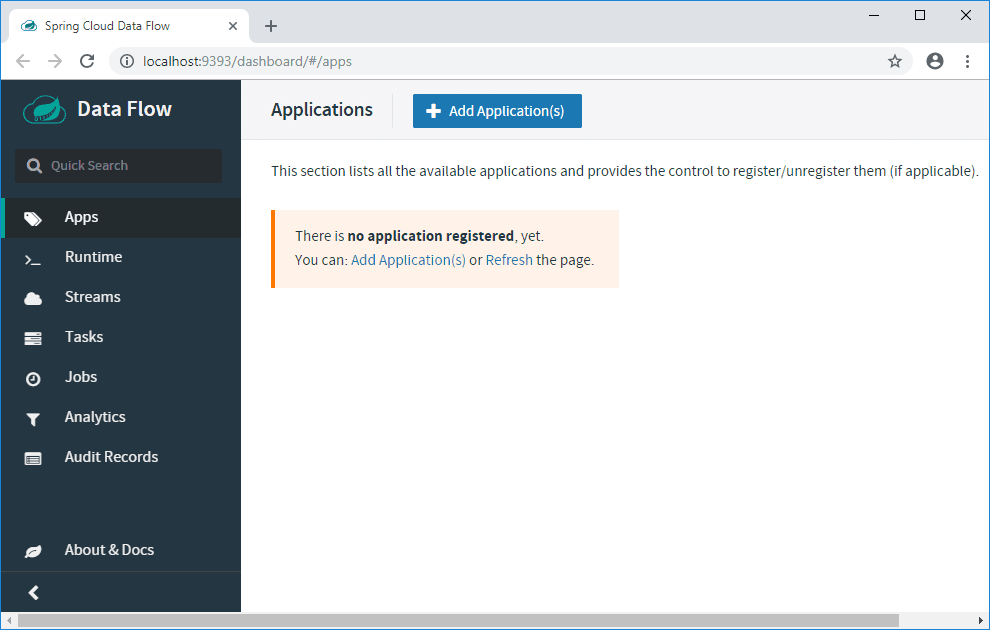
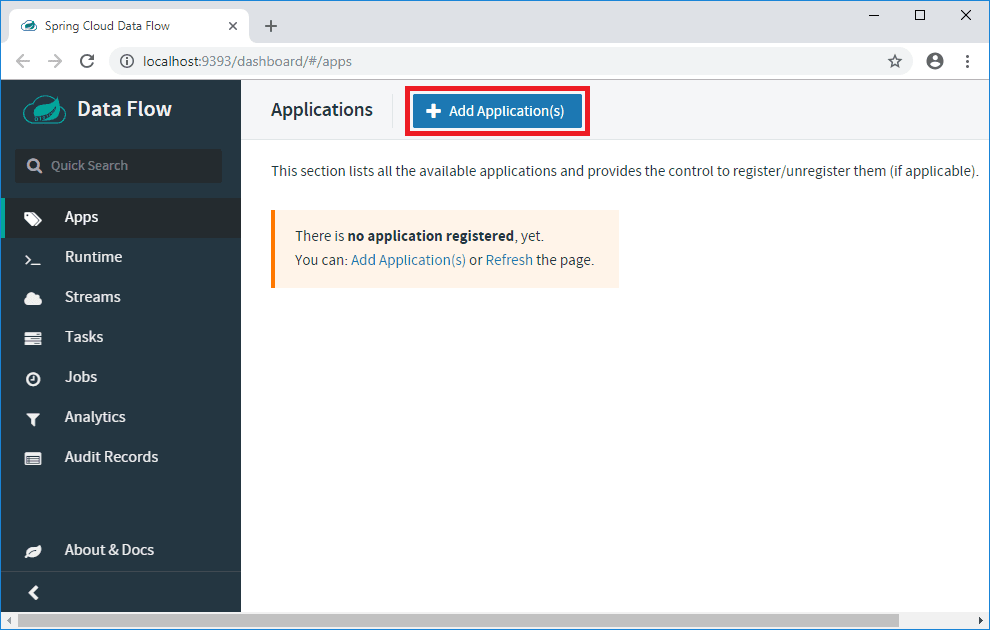
update post

Changed region(s): [[0.3939, 0.1206, 0.6061, 0.2413]]

diff --git a/_posts/spring-batch/2018-11-11-spring-batch-admin-example.md b/_posts/spring-batch/2018-11-11-spring-batch-admin-example.md
@@ -347,9 +347,28 @@ Using default security password: c99c3621-2859-4028-9173-d93b6697ea5a
 2018-11-11 11:39:02.412  INFO 7516 --- [           main] c.c.b.SpringDataFlowServerApplication    : Started SpringDataFlowServerApplication in 14.471 seconds (JVM running for 19.197)
 {% endhighlight %}
 
-Open a web browser and navigate to [http://localhost:9393/dashboard](http://localhost:9393/dashboard){:target="_blank"}. This will open the Spring Cloud Data Flow dashboard as shown below.
+Open a web browser and navigate to [http://localhost:9393/dashboard](http://localhost:9393/dashboard){:target="_blank"}.
+
+This will open the Spring Cloud Data Flow dashboard as shown below.
+
+Now it's time to add our Spring Batch Task. Click on the <var>Add Application(s)</var> button.
 
 <img src="{{ site.url }}/assets/images/spring-batch/spring-cloud-data-flow-dashboard.png" alt="spring cloud data flow dashboard">
+
+Click on <var>Register one or more applications</var>.
+
+Enter a <var>name</var> and select <kbd>Task</kbd> as the <var>type</var>. As <var>URI</var> we enter the location of our Spring Boot Task JAR file: <kbd>file://C:/Users/Codenotfound/repos/spring-batch/spring-batch-admin/spring-batch-task/target/spring-batch-task-0.0.1-SNAPSHOT.jar</kbd>
+
+Once done click on <var>Register the application(s)</var>.
+
+<img src="{{ site.url }}/assets/images/spring-batch/spring-cloud-data-flow-register-application.png" alt="spring cloud data flow register application">
+
+Our application is now registered.
+
+Click on <var>Task</var> menu to setup a new task.
+
+<img src="{{ site.url }}/assets/images/spring-batch/spring-cloud-data-flow-applications.png" alt="spring cloud data flow applications">
+
 
 
 ---
